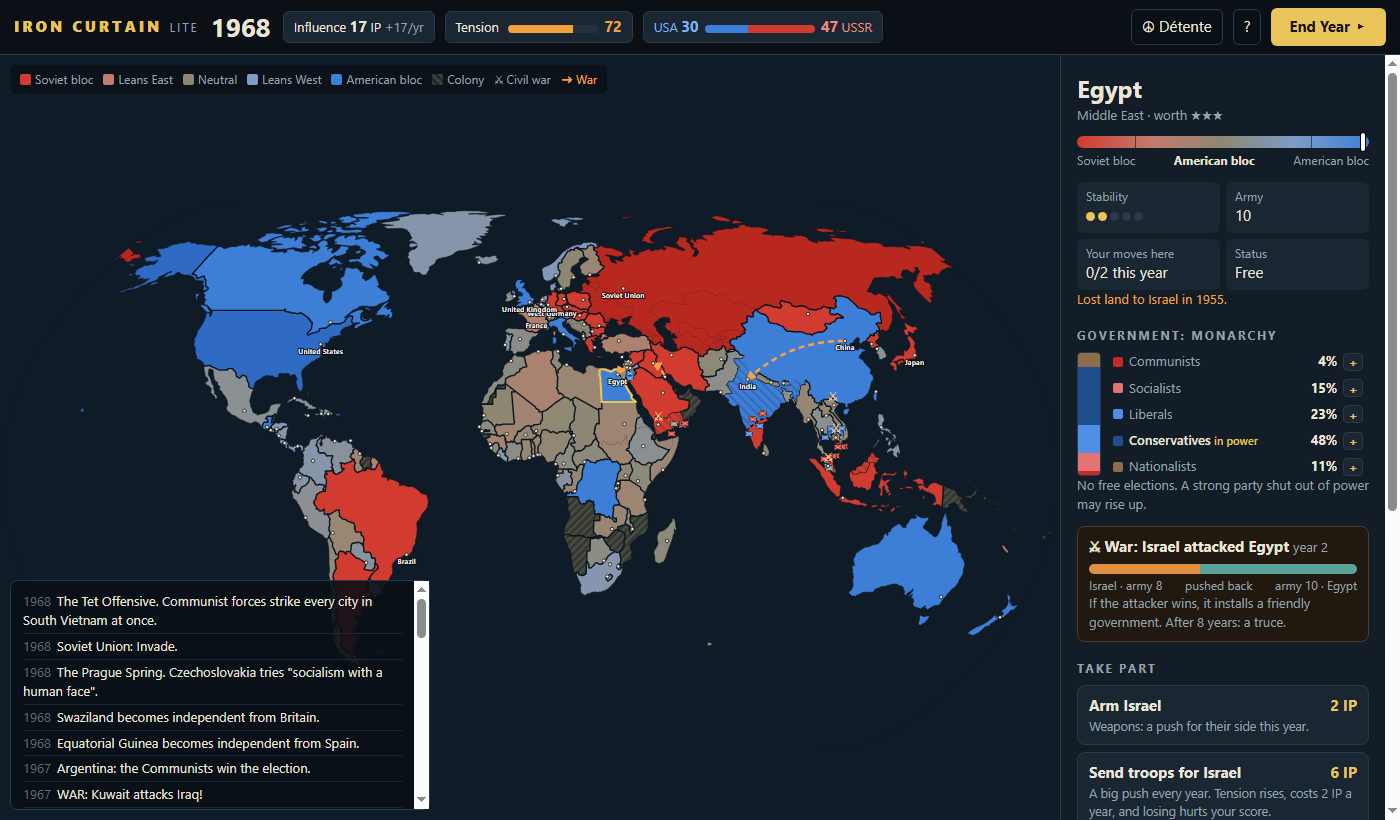
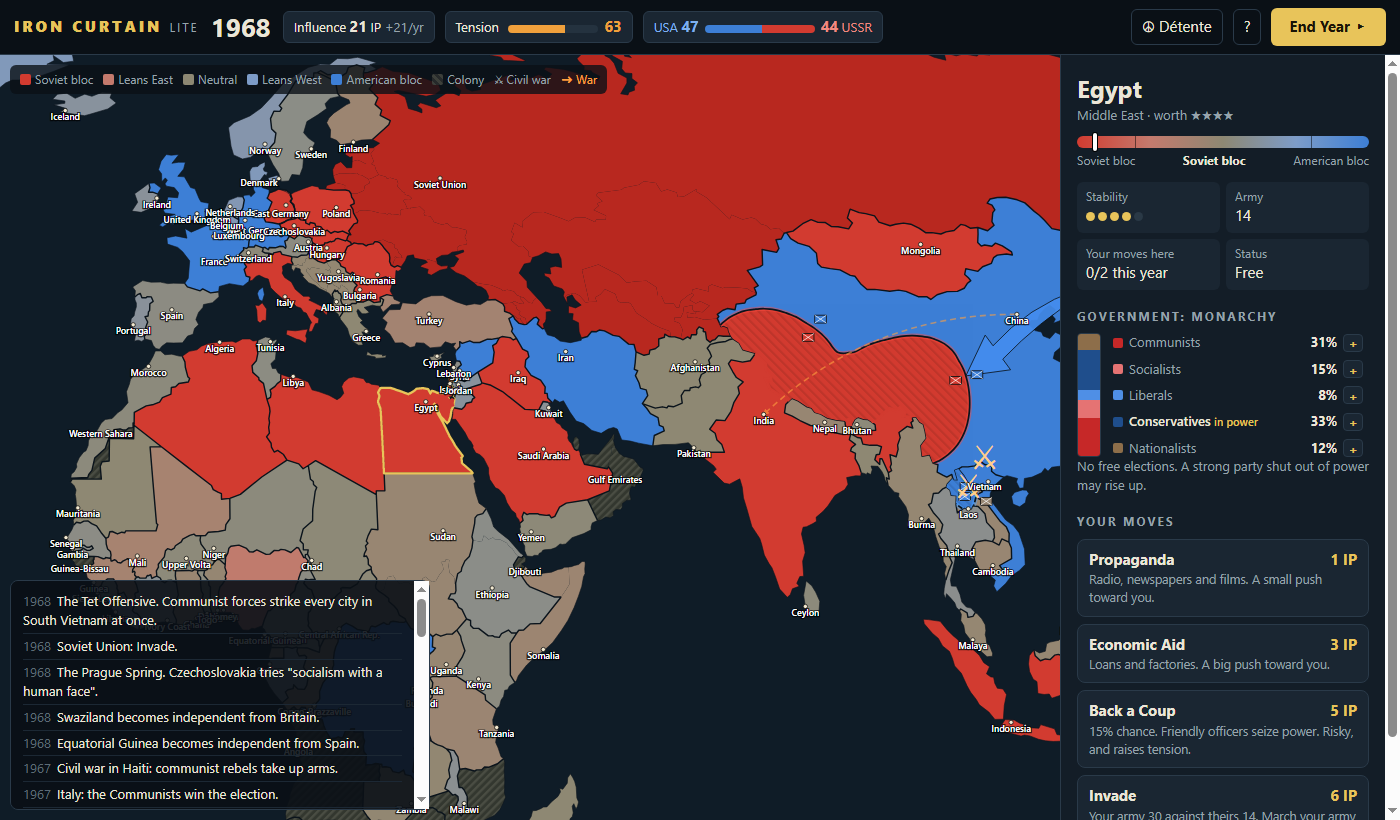
New screenshot showing the war map; test page can set a view

diff --git a/tools/test.html b/tools/test.html
@@ -64,5 +64,6 @@ if(location.hash.includes('stage')){ const g=ironCurtain.game; g.wars=[]; GAME.c
 if(pick){ const p=[...document.querySelectorAll('path.land')].find(p=>p.__data__&&p.__data__.key===pick); if(p) p.dispatchEvent(new MouseEvent(location.hash.includes('dbl')?'dblclick':'click',{bubbles:true})); }
 const zm=location.hash.match(/z=(\w+)/); if(zm) ironCurtain.zoomTo(zm[1]);
 if(location.hash.includes('mid')){ const t0=performance.now(); while(performance.now()-t0<800); d3.timerFlush(); }
+const vm=location.hash.match(/v=(-?[\d.]+):(-?[\d.]+):([\d.]+)/); if(vm) ironCurtain.view(+vm[1],+vm[2],+vm[3]);
 </script></body>
 </html>

diff --git a/ui.js b/ui.js
@@ -713,6 +713,7 @@
   document.addEventListener('keydown', e => { if (e.key === 'Enter' && $('modal').hidden) endYear(); if (e.key === 'Escape' && $('modal').hidden) { sel = null; refresh(); } });
 
   // for the browser console and tests: ironCurtain.game is the game being played
-  window.ironCurtain = { get game() { return g; }, refresh, zoomTo, frontField, center };
+  window.ironCurtain = { get game() { return g; }, refresh, zoomTo, frontField, center,
+    view: (lon, lat, k) => { const [x, y] = proj([lon, lat]); svg.call(zoom.transform, d3.zoomIdentity.translate(W / 2 - k * x, H / 2 - k * y).scale(k)); } };
   start();
 })();
